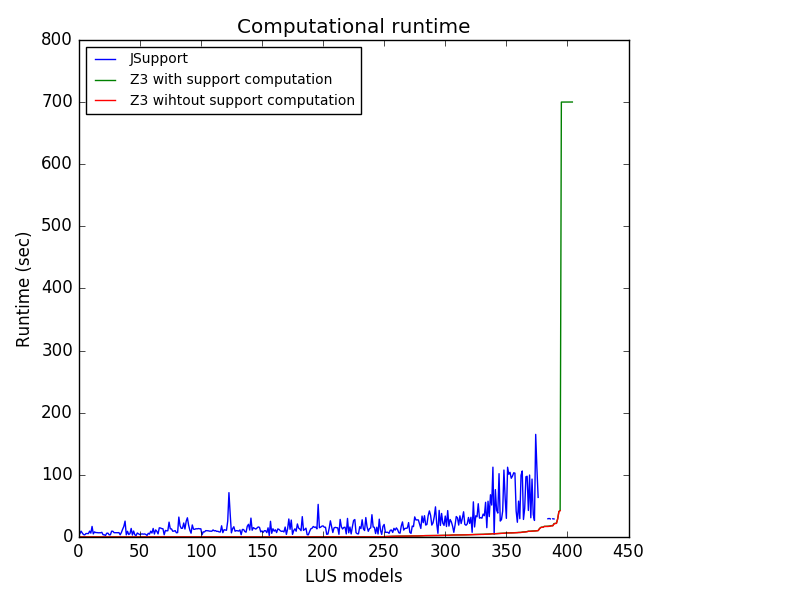
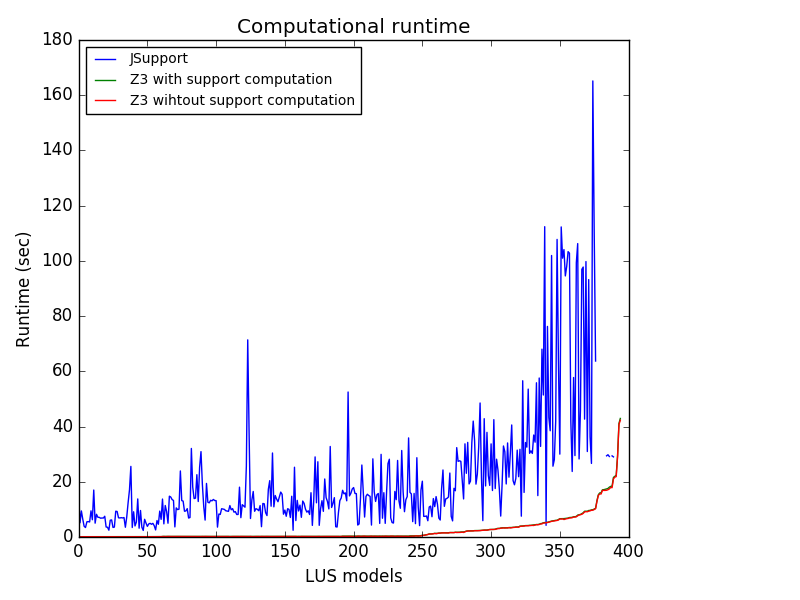
update time_analyzer.py & its results

diff --git a/support/experiments/scripts_for_experiments/time_analyzer.py b/support/experiments/scripts_for_experiments/time_analyzer.py
@@ -11,6 +11,7 @@ import matplotlib.pyplot as plt
 from matplotlib.pyplot import cm
 import numpy as np
 
+TIMEOUT = 700.0
 SOLVERS = ['z3', 'yices', 'smtinterpol', 'mathsat']
 MINING_DIR = 'mining'
 ANALYSES_DIR = 'timing_analyses' 
@@ -56,7 +57,7 @@ all_timings = []
 for i in range(9):
     all_timings.append(reader[TIMINGS[i]])
     
-#add support computation time for _both setting
+# Add support computation time for _both setting
 sup_timings = []
 for solver in SOLVERS:
     sup_timings.append(reader[solver+'_both_sup'])
@@ -71,6 +72,10 @@ writer = open(os.path.join(ANALYSES_DIR, 'timing_analyses.txt'), 'a')
 for i, legend in enumerate(LEGENDS):
     writer.write('###################  timing report on the \"'+ legend + '\" setting  ###################\n')
     all_timings[i] = [float(x) for x in all_timings[i]]
+    # Clean unknown runtimes
+    for t, time in enumerate(all_timings[i]):
+        if time >= TIMEOUT:
+            all_timings[i][t] = float('nan')
     writer.write('\nminimum runtime is: ' + str(min(all_timings[i])))
     writer.write('\nmaximum runtime is: ' + str(max(all_timings[i])))
     writer.write('\npopulation standard deviation runtime is: ' + str(np.nanstd(all_timings[i])))

diff --git a/support/experiments/scripts_for_experiments/variety_analyzer.py b/support/experiments/scripts_for_experiments/variety_analyzer.py
@@ -144,8 +144,8 @@ writer.write('\nthere are ' + str(len(interesting_models)) + ' models in the ben
 writer.write('\nfor each of these models, this file reports the following:\n\n')
 writer.write('\n    -- size of the model')
 writer.write('\n    -- min/max/mean/stdev Jaccard distance > 0.0')
-writer.write('\n    -- pairwise configurations with min/max Jaccard distances > 0.0')
-writer.write('\n    -- pairwise configurations with min/max Jaccard distances > 0.0')
+writer.write('\n    -- pairwise configurations with min Jaccard distances > 0.0')
+writer.write('\n    -- pairwise configurations with max Jaccard distances > 0.0')
 writer.write('\n-------------------------------------------------------------------------------------------------\n\n')
 for indx, model in enumerate(interesting_models):
     writer.write('\n'+ str(indx) +') '+ model + ' :')
